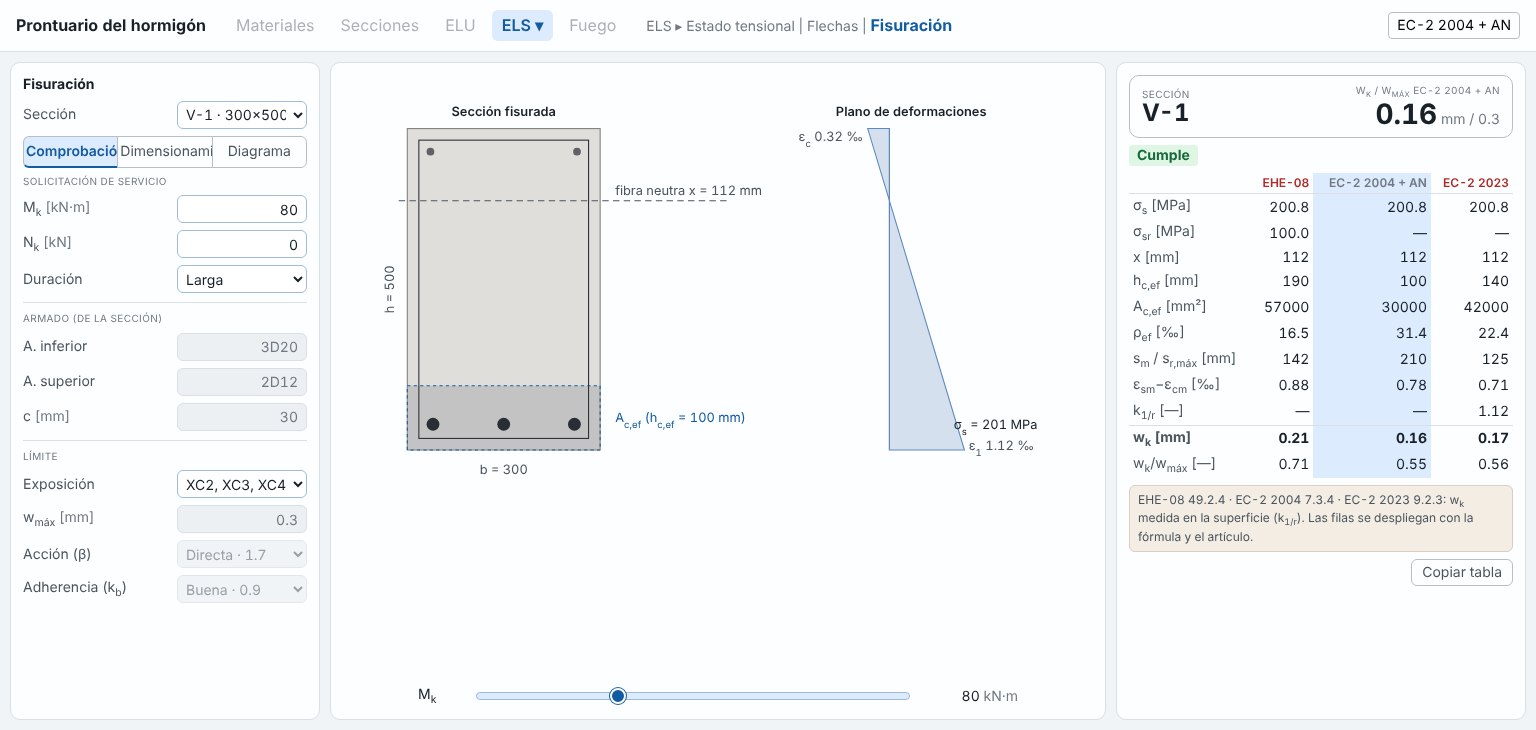
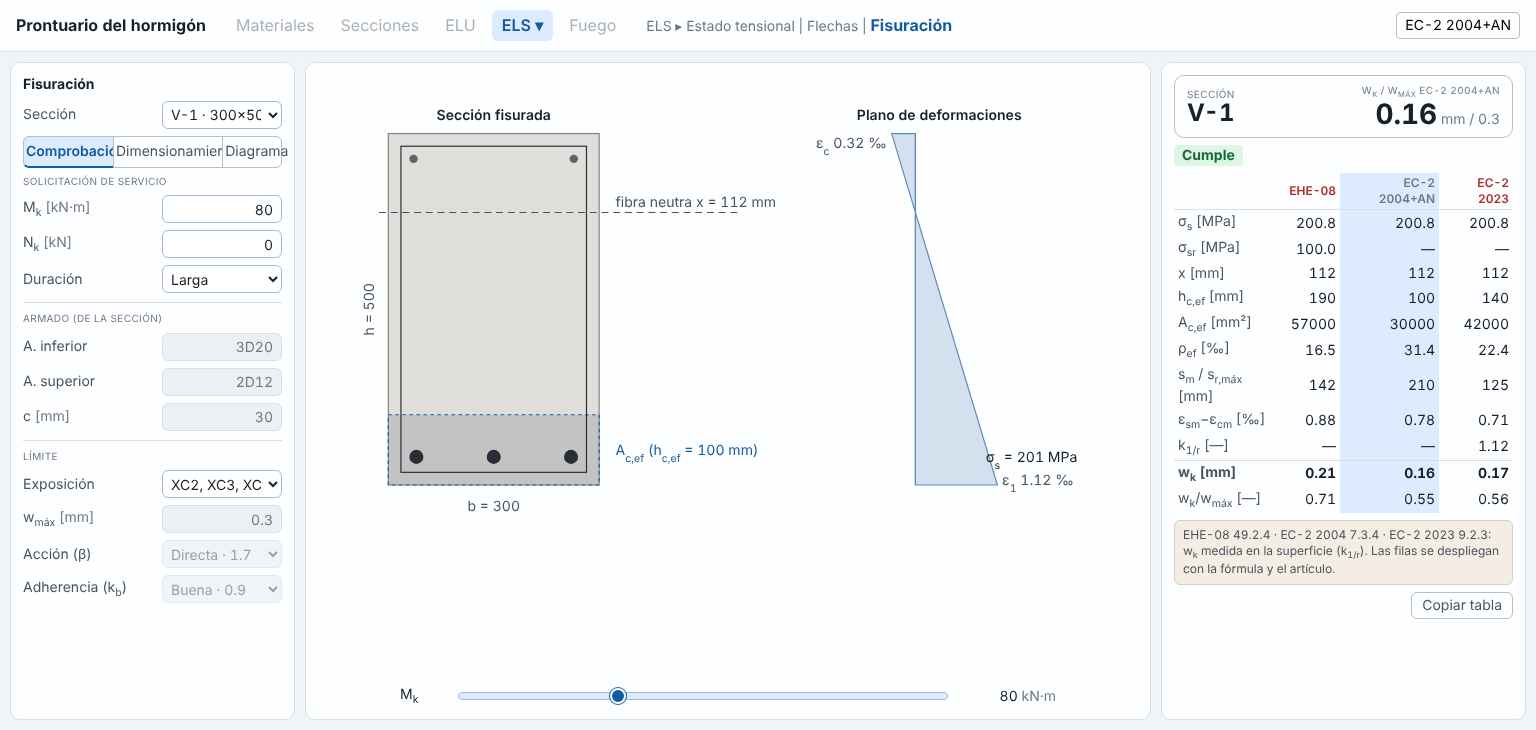
Fisuración maqueta: columnas laterales más estrechas, centro más ancho
Claude-Session: https://claude.ai/code/session_01TSdAESjbowaDM1mS9UDK4X

diff --git a/analisis/maqueta/fisuracion.html b/analisis/maqueta/fisuracion.html
@@ -14,15 +14,15 @@ body{background:var(--suelo);color:var(--tinta);font:var(--s)/1.35 var(--f);font
 .menu span{padding:5px 10px;border-radius:6px}.menu .on{background:var(--acento-suave);color:var(--acento);font-weight:600}.menu .off{opacity:.45}
 .norma{margin-left:auto;border:1px solid var(--linea-fuerte);border-radius:4px;padding:3px 8px;cursor:pointer;background:var(--hoja);font:inherit}
 .norma.rojo{color:var(--no);border-color:var(--no)}
-main{flex:1;min-height:0;display:grid;grid-template-columns:310px 1fr 410px;gap:10px;padding:10px}
+main{flex:1;min-height:0;display:grid;grid-template-columns:285px 1fr 365px;gap:10px;padding:10px}
 .panel{background:var(--hoja);border:1px solid var(--linea);border-radius:10px;padding:12px;min-height:0;overflow:hidden;display:flex;flex-direction:column;gap:7px}
 h1{font-size:var(--s);margin:0;font-weight:700}
 .fila{display:flex;align-items:center;justify-content:space-between;gap:8px;min-height:28px}.fila label{color:var(--tinta-2)}
-.caja{width:130px;height:28px;border:1px solid var(--campo-borde);background:var(--campo);border-radius:6px;padding:0 8px;font:inherit;text-align:right;color:var(--tinta)}
+.caja{width:120px;height:28px;border:1px solid var(--campo-borde);background:var(--campo);border-radius:6px;padding:0 8px;font:inherit;text-align:right;color:var(--tinta)}
 .caja:disabled{background:oklch(95.2% .006 240);border-color:var(--linea);color:var(--tinta-3);cursor:not-allowed}
 select.caja{text-align:left;padding:0 4px}
 .u{color:var(--tinta-3)}
-.capsula{display:flex}.capsula button{flex:1;min-width:0;font-size:12px;padding-left:0;padding-right:0;white-space:nowrap;border:1px solid var(--linea-fuerte);background:var(--hoja);font:inherit;padding:5px 2px;cursor:pointer;color:var(--tinta-2);margin-left:-1px}
+.capsula{display:flex}.capsula button{flex:1 1 auto;min-width:0;font-size:12px;padding-left:0;padding-right:0;white-space:nowrap;border:1px solid var(--linea-fuerte);background:var(--hoja);font:inherit;padding:5px 2px;cursor:pointer;color:var(--tinta-2);margin-left:-1px}
 .capsula button:first-child{border-radius:6px 0 0 6px;margin:0}.capsula button:last-child{border-radius:0 6px 6px 0}
 .capsula button.on{background:var(--acento-suave);color:var(--acento);border-bottom:2px solid var(--acento);font-weight:600}
 .sep{border-top:1px solid var(--linea);margin:2px 0}.rot{font-size:10px;text-transform:uppercase;letter-spacing:.04em;color:var(--tinta-3)}
@@ -53,7 +53,7 @@ sub{font-size:.75em}svg text{font-family:var(--f);font-variant-numeric:tabular-n
 </main>
 <script>
 // ---------- MAQUETA: cifras ilustrativas con fórmulas de los textos (EHE-08 49.2.4; EC-2 2004 7.3.4; EC-2 2023 9.2.3). Sin pretensado ni tension stiffening. ----------
-const NORMAS=[{id:'EHE',n:'EHE-08',rojo:true},{id:'EC2',n:'EC-2 2004 + AN',rojo:false},{id:'EC23',n:'EC-2 2023',rojo:true}];
+const NORMAS=[{id:'EHE',n:'EHE-08',rojo:true},{id:'EC2',n:'EC-2 2004+AN',rojo:false},{id:'EC23',n:'EC-2 2023',rojo:true}];
 const EXPO=[{ec:'X0, XC1',ehe:'I',w:.4},{ec:'XC2, XC3, XC4, XF1',ehe:'IIa, IIb, H',w:.3},{ec:'XD, XS1, XS2, XF2',ehe:'IIIa, IIIb, IV, F',w:.2},{ec:'XS3, XA2',ehe:'IIIc, Qb, Qc',w:.1}];
 const S={norma:1,modo:'comp',M:80,N:0,b:300,h:500,c:30,n1:3,f1:20,n2:2,f2:12,expo:1,dur:'larga',accion:'directa',adh:'buena',fck:30,fyk:500};
 const Es=200000,fmt=(x,d)=>(Math.abs(x)<.5*10**-d?0:x).toFixed(d).replace('-','−');
